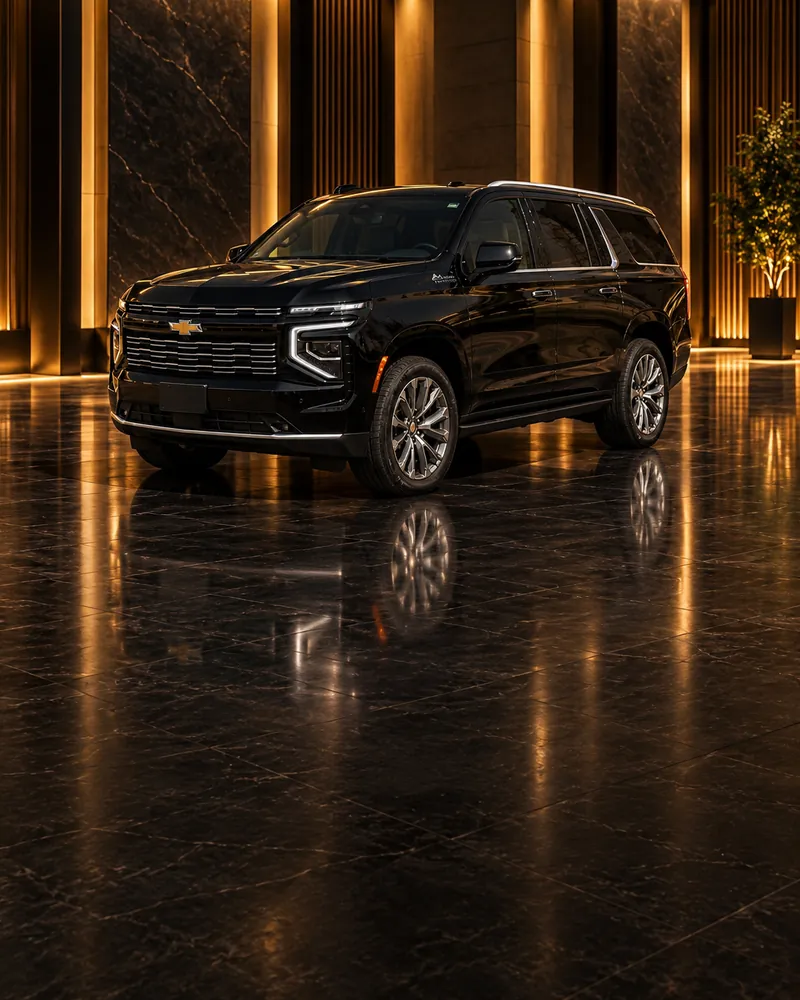
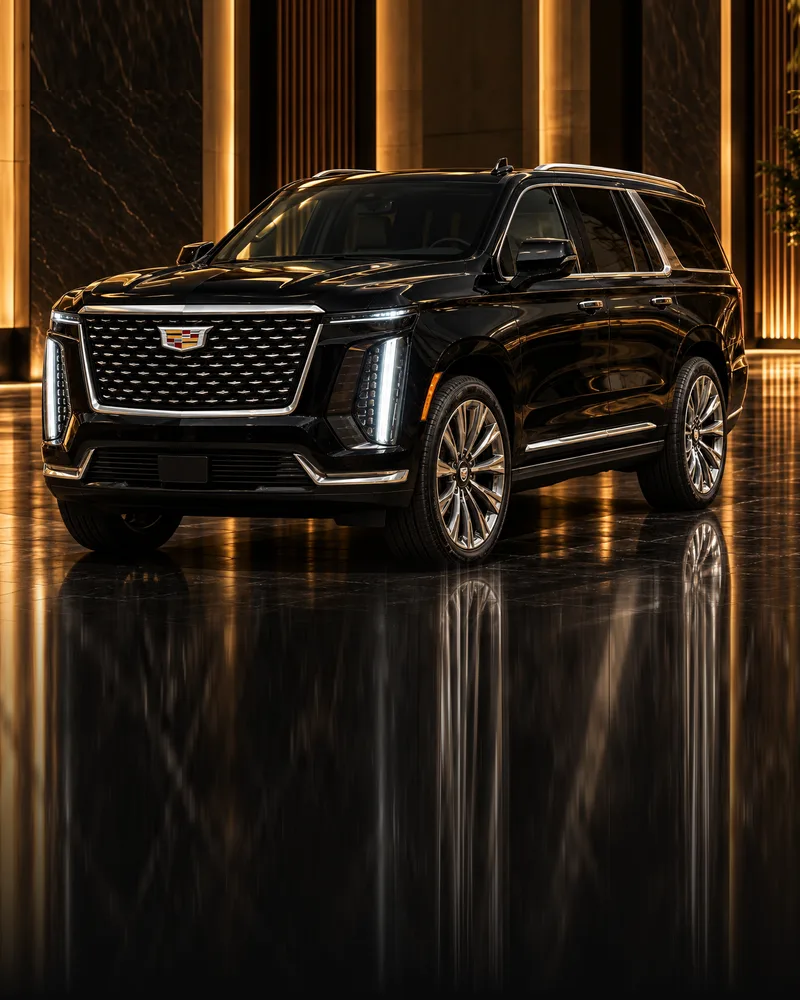
SUV Lux: Cadillac Escalade 2027 y foto nueva
Claude-Session: https://claude.ai/code/session_01L4xAwb38y5J6u1exb5dvEM

diff --git a/app/_components/HomeClient.tsx b/app/_components/HomeClient.tsx
@@ -244,9 +244,9 @@ const TX = {
     sinUnidadesCta: "Assistance on WhatsApp",
     alertCapacity: (cat: string, pax: number, bags: number, cabe: string) =>
       `${cat} takes up to ${pax} passengers and ${bags} bags. For what you entered, choose ${cabe}.`,
-    escLabel: "Guarantee the Cadillac Escalade 2026",
-    escHelp: (pct: number) => `+${pct}% on the SUV Lux fare. Without it, we assign the Suburban High Country or the Escalade depending on availability.`,
-    escVehicle: "SUV Lux · Escalade 2026 guaranteed",
+    escLabel: "Guarantee the Cadillac Escalade 2027",
+    escHelp: (pct: number) => `+${pct}% on the SUV Lux fare. Without it, we assign the Suburban High Country or the Cadillac Escalade 2027 depending on availability.`,
+    escVehicle: "SUV Lux · Cadillac Escalade 2027 guaranteed",
     rtTitle: "Want to come back the same day?",
     rtLabel: "Round trip with the chauffeur waiting",
     rtHelp: (h: number) =>
@@ -409,9 +409,9 @@ const TX = {
     sinUnidadesCta: "Atención por WhatsApp",
     alertCapacity: (cat: string, pax: number, bags: number, cabe: string) =>
       `En ${cat} caben ${pax} pasajeros y ${bags} maletas. Para lo que indicaste, elige ${cabe}.`,
-    escLabel: "Garantizar Cadillac Escalade 2026",
-    escHelp: (pct: number) => `+${pct}% sobre la tarifa de SUV Lux. Sin esta opción asignamos la Suburban High Country o la Escalade según disponibilidad.`,
-    escVehicle: "SUV Lux · Escalade 2026 garantizada",
+    escLabel: "Garantizar Cadillac Escalade 2027",
+    escHelp: (pct: number) => `+${pct}% sobre la tarifa de SUV Lux. Sin esta opción asignamos la Suburban High Country o la Cadillac Escalade 2027 según disponibilidad.`,
+    escVehicle: "SUV Lux · Cadillac Escalade 2027 garantizada",
     rtTitle: "¿Quieres regresar el mismo día?",
     rtLabel: "Viaje redondo con el chofer esperándote",
     rtHelp: (h: number) =>
@@ -1146,7 +1146,7 @@ export default function HomeClient({
    */
   /** Se enciende cuando el servidor contesta que no quedan unidades. */
   const [sinUnidades, setSinUnidades] = useState(false);
-  /** Garantizar Escalade 2026 (+20 %). Sólo cuenta con SUV Lux elegida. */
+  /** Garantizar Cadillac Escalade 2027 (+20 %). Sólo cuenta con SUV Lux elegida. */
   const [escalade, setEscalade] = useState(false);
   /**
    * LO QUE CONTESTÓ /api/disponibilidad para el horario y la categoría
@@ -1458,7 +1458,7 @@ export default function HomeClient({
       `Destino: ${serviceType === "route" ? destination : "Disposición libre"}`,
       "",
       "*Detalles*",
-      `Vehículo: ${escaladeActivo ? "SUV Lux · Escalade 2026 garantizada" : vehicles[category].name}`,
+      `Vehículo: ${escaladeActivo ? "SUV Lux · Cadillac Escalade 2027 garantizada" : vehicles[category].name}`,
       serviceType === "route"
         ? `Distancia: ${km} km / ${minutes} min`
         : `Duración: ${serviceTypeLabelEs(serviceType, rentalHours)}`,

diff --git a/app/_components/FleetPage.tsx b/app/_components/FleetPage.tsx
@@ -70,9 +70,9 @@ export function fleetPriceRange() {
 const DETALLE: Record<Category, { forEs: string; forEn: string; notEs: string; notEn: string }> = {
   suv: {
     forEs:
-      "Es la que más equipaje admite y la que más se pide para aeropuerto con familia o con equipo. Va cómoda en carretera, así que también es la de las rutas foráneas largas. Es una de las dos categorías que llevan chofer bilingüe. Unidades: Chevrolet Suburban High Country y Cadillac Escalade 2026; si quieres la Escalade segura, puedes garantizarla al reservar.",
+      "Es la que más equipaje admite y la que más se pide para aeropuerto con familia o con equipo. Va cómoda en carretera, así que también es la de las rutas foráneas largas. Es una de las dos categorías que llevan chofer bilingüe. Unidades: Chevrolet Suburban High Country y Cadillac Escalade 2027; si quieres la Escalade segura, puedes garantizarla al reservar.",
     forEn:
-      "It takes the most luggage and is the one most asked for at the airport with family or with equipment. It is comfortable on the motorway, so it is also the one for the long out-of-town routes. It is also one of the two categories that travel with a bilingual chauffeur. Vehicles: Chevrolet Suburban High Country and Cadillac Escalade 2026; if you want the Escalade for sure, you can guarantee it when booking.",
+      "It takes the most luggage and is the one most asked for at the airport with family or with equipment. It is comfortable on the motorway, so it is also the one for the long out-of-town routes. It is also one of the two categories that travel with a bilingual chauffeur. Vehicles: Chevrolet Suburban High Country and Cadillac Escalade 2027; if you want the Escalade for sure, you can guarantee it when booking.",
     notEs:
       "Si van tres personas con poco equipaje, es más auto del que necesitas: la Executive cuesta menos y llega igual de bien.",
     notEn:

diff --git a/app/api/checkout/route.ts b/app/api/checkout/route.ts
@@ -72,7 +72,7 @@ export async function POST(req: Request) {
     const quiereRedondo = Boolean(body.redondo);
     const horasEspera = Number(body.horasEspera);
     const flightNumber = String(body.flightNumber || "").trim().toUpperCase().slice(0, VUELO_MAX);
-    // Garantizar Escalade 2026 (+20 %): sólo existe dentro de SUV Lux.
+    // Garantizar Cadillac Escalade 2027 (+20 %): sólo existe dentro de SUV Lux.
     const escalade = Boolean(body.escalade) && category === "suv";
 
     // km, minutes y zone se calculan server-side — no se aceptan del cliente
@@ -265,7 +265,7 @@ export async function POST(req: Request) {
     // leen el equipo, el chofer y el correo del cliente.
     const vehicle = vehicles[category].name;
     const notasConEscalade = escalade
-      ? `Escalade 2026 garantizada${notes ? ` · ${notes}` : ""}`
+      ? `Cadillac Escalade 2027 garantizada${notes ? ` · ${notes}` : ""}`
       : notes;
     // EL NOMBRE DEL SERVICIO LO DICE TODO, y no es cosmético: esta cadena es
     // la que viaja a Stripe, al correo del cliente, al aviso de Telegram y al
@@ -346,7 +346,7 @@ export async function POST(req: Request) {
             currency: "mxn",
             unit_amount: price * 100,
             product_data: {
-              name: `Elite Route · ${vehicle}${escalade ? " · Escalade 2026 garantizada" : ""}`,
+              name: `Elite Route · ${vehicle}${escalade ? " · Cadillac Escalade 2027 garantizada" : ""}`,
               description: `${serviceLabel} · ${serviceDate} ${serviceTime}`,
             },
           },

diff --git a/lib/agenda.ts b/lib/agenda.ts
@@ -52,7 +52,7 @@ import { SUPABASE_PUBLISHABLE_KEY, SUPABASE_URL } from "./reservas";
 // web SUV Lux se vende con UNA unidad: si el horario choca, se bloquea sin
 // aviso y la salida es WhatsApp. Para volver a vender el convenio: suv: 2.
 // 16 nov 2026: SUV Lux pasa a DOS unidades propias (Suburban High Country y
-// Escalade 2026), las dos firmes.
+// Cadillac Escalade 2027), las dos firmes.
 export const UNIDADES: Partial<Record<Category, number>> = { suv: 2 };
 /** De esas, cuántas son propias y se venden sin condición. */
 export const UNIDADES_FIRMES: Partial<Record<Category, number>> = { suv: 2 };

diff --git a/lib/service-limits.ts b/lib/service-limits.ts
@@ -241,7 +241,7 @@ export function precioConEvento(precio: number, cat: Category, fecha: string, ho
 
 /**
  * GARANTIZAR ESCALADE 2026, decisión del dueño (7 y 16 nov 2026). SUV Lux
- * tiene dos unidades propias —Suburban High Country y Escalade 2026— y se
+ * tiene dos unidades propias —Suburban High Country y Cadillac Escalade 2027— y se
  * vende por categoría; quien quiera la Escalade segura paga +20 % sobre el
  * precio final de SUV Lux (evento y temporada incluidos). Sin categoría
  * aparte: es una opción dentro de SUV Lux. Lo cobra /api/checkout.

diff --git a/lib/vehicles.ts b/lib/vehicles.ts
@@ -113,7 +113,7 @@ export const vehicles: Record<
     note: "recommended 4 passengers with full luggage",
     noteEs: "recomendado 4 pasajeros con equipaje completo",
     // 16 nov 2026: dos unidades propias. La Escalade se puede garantizar (+20 %).
-    tag: "Suburban High Country · Escalade 2026",
+    tag: "Suburban High Country · Cadillac Escalade 2027",
   },
 };
 
